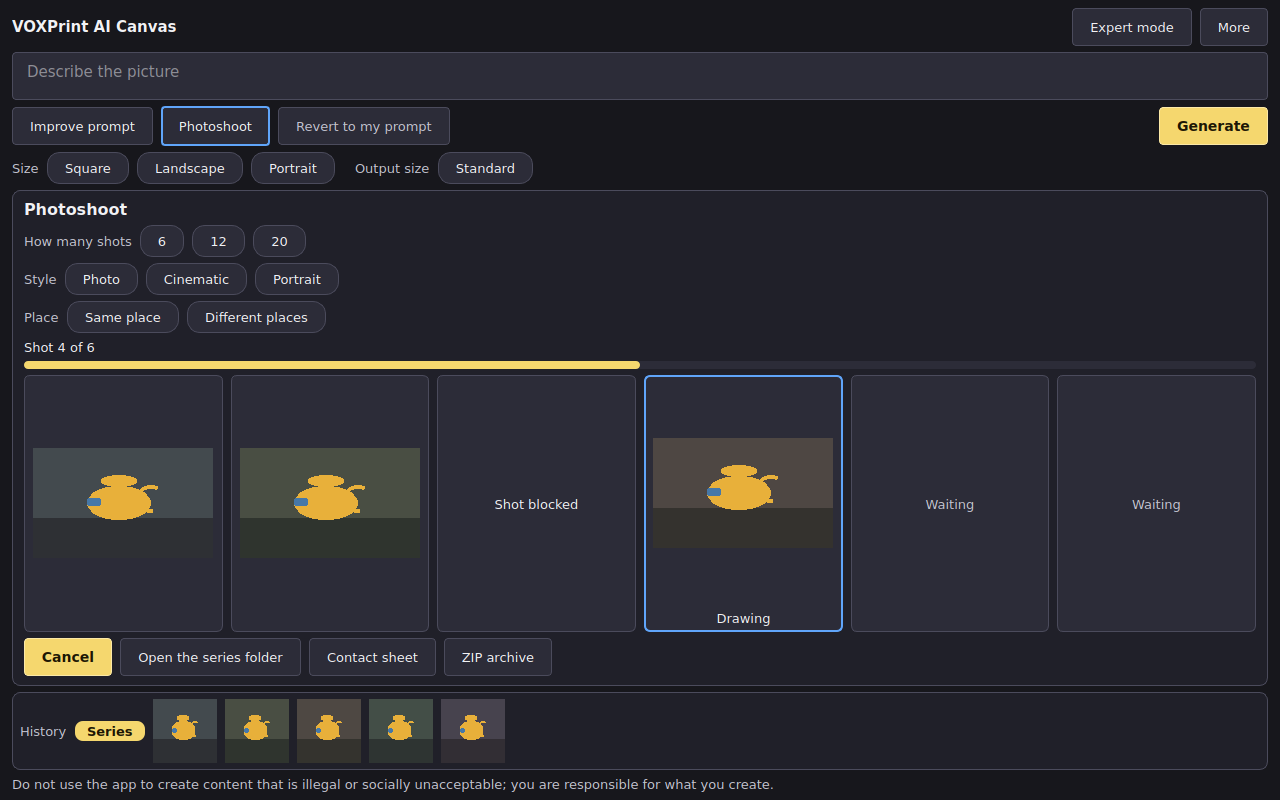
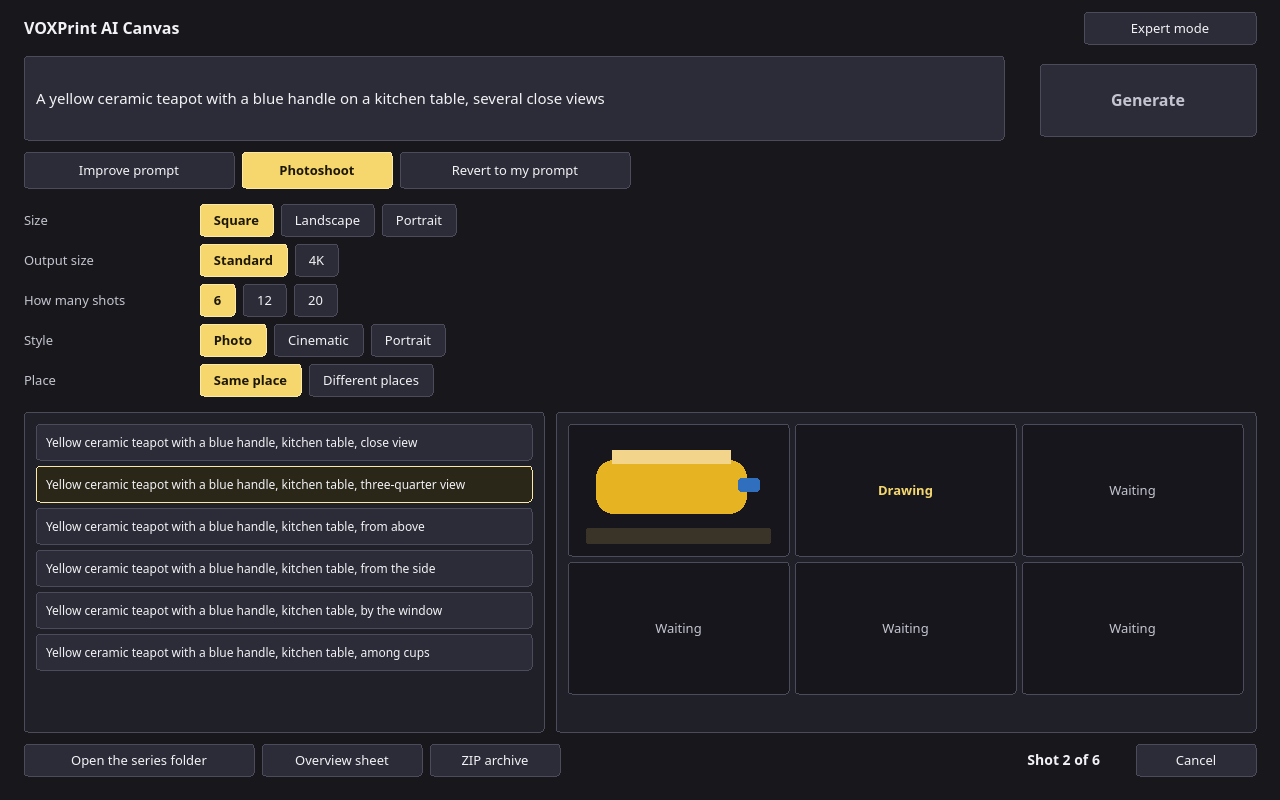
Plan Photoshoot as an automatic Improve mode.
The idea stays in the prompt field. Photoshoot is a selected option
beside Improve prompt, and Generate writes the scenario, checks the
gate, and runs the series. Simple mode shows a read-only shot list.

diff --git a/docs/plans/PHOTOSHOOT.md b/docs/plans/PHOTOSHOOT.md
@@ -2,22 +2,23 @@
 
 > **For agentic workers:** REQUIRED SUB-SKILL: Use superpowers:subagent-driven-development (recommended) or superpowers:executing-plans to implement this plan task-by-task. Steps use checkbox (`- [ ]`) syntax for tracking.
 
-**Goal:** Add a simple-mode Photoshoot («Фотосессия») that writes a scenario and batch-generates 6, 12, or 20 continuing pictures of one subject.
+**Goal:** Add Photoshoot («Фотосессия») as an extended mode of Improve prompt. The user writes the idea in the normal prompt field. One primary action writes the scenario, checks it, and generates 6, 12, or 20 pictures of one subject.
 
-**Architecture:** The button opens a panel on the shared simple screen. Qwen3-4B, the Z-Image text encoder already used by Improve prompt, writes a JSON scenario. The app copies a fixed subject block into every shot, checks it, then generates the series one frame at a time. A hero frame plus moderate img2img is the consistency path. No new model pack, no InsightFace, no training, and no Qwen-Image-Edit.
+**Architecture:** «Фотосессия» is a selected option beside «Улучшить запрос», not a panel the user assembles. Generate stays the only primary button. It asks Qwen3-4B, the Z-Image text encoder already used by Improve prompt, for a JSON scenario, copies a fixed subject block into every shot, runs the existing gate, and generates the series one frame at a time. Simple mode shows that shot list read-only beside the progress grid. A hero frame plus moderate img2img is the consistency path. No new model pack, no InsightFace, no training, and no Qwen-Image-Edit.
 
 **Tech Stack:** PySide6 shell on `ui/shell-migration`, `voxprint-common` simple screen (pin `f4e95cc`), diffusers 0.41.0, Z-Image-Turbo BF16 (`Tongyi-MAI/Z-Image-Turbo` `f332072`), Qwen3-4B causal LM via tied embeddings.
 
-This document is the plan and the mockup. It does not ship the feature.
+Aleksandr, via Suite Lead: «Фотосессия создается автоматически через расширенный режим автоулучшения». Whether this joins the first release remains Aleksandr's decision.
 
 ## Global Constraints
 
 - Licence-clean components only. Apache-2.0 or MIT. No InsightFace. No training of any kind, and no LoRA training.
 - Qwen-Image-Edit stays removed. Do not call it, re-enable it, or use it for consistency.
-- The minors gate is unchanged and non-configurable. It covers the idea, the scenario, every shot prompt, any reference image, and every output frame.
+- The minors gate is unchanged and non-configurable. It covers the idea, the scenario, every shot prompt, and every output frame.
 - The Adult content switch only changes the prompt policy, as it does everywhere else.
 - A reference photo of a real person is out of scope for v1.
-- Simple mode is not a sparse form. Each Photoshoot screen shows 2–5 everyday preset rows. Fine technical parameters stay in Expert.
+- Simple mode is not a sparse form. While Photoshoot is selected, the screen shows 2–5 everyday preset rows, each with a visible selected chip. Fine technical parameters stay in Expert.
+- There is one primary action. Generate («Создать» / "Generate") writes the scenario and creates the series. There is no «Составить сценарий» step and no second primary button.
 - New user-facing strings live in the Canvas i18n catalogs `canvas/ui/locales/en.json` and `canvas/ui/locales/ru.json`. Reused shell strings stay in `voxprint-common`.
 - Z-Image weights stay BF16 on both tiers. The 16 GB FP8 generator is not a shipping path.
 
@@ -25,41 +26,46 @@ This document is the plan and the mockup. It does not ship the feature.
 
 ## 1. Simple-mode flow
 
-Photoshoot sits in the action row, immediately after Improve prompt (`simple.improve`, «Улучшить запрос» / "Improve prompt"). The main prompt field stays. Photoshoot has its own idea field. Generate, Revert, size, and output stay visible. The shell's picture-count chips (`simple.count`, 1 / 2 / 4) hide while the panel is open, so the screen has one count.
+The idea is the text already in the prompt field (`promptBox`). Photoshoot does not add a second idea field.
 
-The panel has three screens. Each one shows the same five everyday preset rows, which is the top of the 2–5 range:
+«Фотосессия» sits in the prompt tools row, immediately after Improve prompt (`simple.improve`, «Улучшить запрос» / "Improve prompt"). It is a checkable option, object name `photoshootMode`. Selected, it is the extended mode of that same enhancer: Generate will write a scenario instead of one rewritten prompt. Unselected, Generate makes one picture as it does today. Improve prompt itself still rewrites a single prompt when the user presses it. Revert stays.
 
-| Row | Where | Choices | Default | Catalog |
-| --- | --- | --- | --- | --- |
-| Size | Shell | Square, Landscape, Portrait | Square | existing `simple.size` and its group labels |
-| Output | Shell | Standard, 4K | Standard | existing `simple.output`, `simple.output.standard`, `simple.output.4k` |
-| How many shots | Panel | 6, 12, 20 | 6 | `photoshoot.count`, `photoshoot.count.6`, `.12`, `.20` |
-| Style | Panel | Photo, Cinematic, Portrait | Photo | existing `simple.style`, `simple.style.photo`, `.cinematic`, `.portrait` |
-| Place | Panel | Same place, Different places | Different places | `photoshoot.place`, `.same`, `.different` |
+While the option is selected, the shell picture-count chips (`simple.count`, 1 / 2 / 4) hide, and the long style row hides. Five everyday rows remain, which is the top of the 2–5 range. The selected chip in each row uses the primary fill and the dark text on primary, so the choice is readable without hovering.
 
-4K uses the existing Enlarge rule. A series does not invent a second output control. The shell picture-count chips stay hidden, so 6 / 12 / 20 is the only count.
+| Row | Choices | Default | Catalog |
+| --- | --- | --- | --- |
+| Size | Square, Landscape, Portrait | Square | existing `simple.size` and its group labels |
+| Output | Standard, 4K | Standard | existing `simple.output`, `simple.output.standard`, `simple.output.4k` |
+| How many shots | 6, 12, 20 | 6 | `photoshoot.count`, `photoshoot.count.6`, `.12`, `.20` |
+| Style | Photo, Cinematic, Portrait | Photo | existing `simple.style`, `simple.style.photo`, `.cinematic`, `.portrait` |
+| Place | Same place, Different places | Same place | `photoshoot.place`, `.same`, `.different` |
 
-The other looks (illustration, anime, 3D, painting, sketch) stay on the main style row when Photoshoot is closed. While the panel is open, the style row is these three everyday looks, so there is one style row and it still fits. They write `canvas.style` through the same path as the main row.
+4K uses the existing Enlarge rule. A series does not invent a second output control. The three Photoshoot style chips write `canvas.style` through the same path as the main row. The other looks stay available when Photoshoot is off.
 
-### Idea
+### One action
 
-«Фотосессия» opens the panel on the idea screen. The idea is one plain field, separate from the prompt. The five rows above are already filled. «Составить сценарий» sends the idea, the shot count, the style, and the place choice to the scenario model. The button shows «Составляем сценарий…» and is busy until the list appears. Cancel (`simple.cancel`) is visible during that wait and discards the reply.
+«Создать» / "Generate" is the only primary button. With Photoshoot selected it does all of this, in order, without a confirmation screen:
 
-### Shots
+1. Gate the idea. A block stops the series. The idea is not rewritten.
+2. Ask the enhancer for the scenario and the shot lines.
+3. Gate the scenario text. A block stops the series. The scenario is not rewritten and the model is not asked to soften it.
+4. Generate the series, gating each shot line and each output frame.
 
-The next screen is an editable list of one line per shot. The line count starts at the selected chip (6, 12, or 20). Each line can be edited, moved up, moved down, deleted, or a new line can be added. Add is disabled at 20. Delete is disabled at 6. «Создать серию» is disabled outside 6–20, and the hint `photoshoot.range` shows.
+Cancel (`simple.cancel`) is visible during that whole run. Cancel stops before the next frame. The frame already in flight is allowed to finish and is kept if the gate allows it. Frames already saved stay in the series folder.
 
-Changing 6 / 12 / 20 sets the length. Growing asks the model only for the new lines and appends them. Shrinking drops lines from the end. Style, place, and size stay visible. Changing style or place does not rewrite the list by itself. «Обновить сценарий» appears and, when pressed, replaces the lines. It does not run unless the user presses it.
+### Shot list during the run
 
-### Create and progress
+The generated lines appear as soon as the scenario is accepted, in a read-only list beside the progress grid (above it when the stage is narrow). Simple rows are plain. They show the subject block, the place, the scene, and the pose. They do not show a lens, a millimetre value, or an angle. A row has no drag handle and no menu.
 
-«Создать серию» starts the run. The progress screen keeps the same five rows, frozen, so the choices stay readable. A grid fills one cell at a time. The line is «Кадр {current} из {total}». «Отмена» stays visible. Cancel stops before the next frame. The frame already in flight is allowed to finish and is kept if the gate allows it. Frames already saved stay in the series folder.
+Example, simple Russian row: «Жёлтый керамический чайник с синей ручкой, кухонный стол, крупно».
 
-These actions stay visible on the progress screen, not behind Expert:
+The progress line is «Кадр {current} из {total}». The five preset rows stay visible and frozen, with the same selected chips. The grid fills one cell at a time.
+
+These actions stay visible on the progress screen, not behind Expert. They are plain buttons. Generate is the only primary, and it is disabled while the run is busy.
 
 - Cancel (`simple.cancel`)
 - Open the series folder (`photoshoot.folder`)
-- Contact sheet (`photoshoot.export.sheet`)
+- Overview sheet (`photoshoot.export.sheet`)
 - ZIP (`photoshoot.export.zip`)
 
 The sheet and the ZIP include whatever has been kept. They are enabled after the first kept frame, not only at the end.
@@ -82,12 +88,6 @@ New keys, both catalogs. `{current}` and `{total}` are the only placeholders.
 | --- | --- | --- |
 | `photoshoot.button` | Photoshoot | Фотосессия |
 | `photoshoot.tooltip` | A series of the same subject | Серия кадров одного предмета |
-| `photoshoot.title` | Photoshoot | Фотосессия |
-| `photoshoot.idea.label` | Idea | Идея |
-| `photoshoot.idea.placeholder` | Describe the idea. The same subject, different shots. | Опишите идею. Один и тот же предмет или человек, разные кадры. |
-| `photoshoot.idea.write` | Write the scenario | Составить сценарий |
-| `photoshoot.idea.writing` | Writing the scenario… | Составляем сценарий… |
-| `photoshoot.idea.update` | Update the scenario | Обновить сценарий |
 | `photoshoot.count` | How many shots | Сколько кадров |
 | `photoshoot.count.6` | 6 | 6 |
 | `photoshoot.count.12` | 12 | 12 |
@@ -95,12 +95,6 @@ New keys, both catalogs. `{current}` and `{total}` are the only placeholders.
 | `photoshoot.place` | Place | Место |
 | `photoshoot.place.same` | Same place | Одно место |
 | `photoshoot.place.different` | Different places | Разные места |
-| `photoshoot.shots.hint` | Each line can be edited, moved, deleted, or added. | Каждую строку можно изменить, передвинуть, удалить или добавить. |
-| `photoshoot.shots.add` | Add a shot | Добавить кадр |
-| `photoshoot.shots.up` | Up | Выше |
-| `photoshoot.shots.down` | Down | Ниже |
-| `photoshoot.shots.create` | Create the series | Создать серию |
-| `photoshoot.range` | A series needs 6 to 20 shots. | Нужно от 6 до 20 кадров. |
 | `photoshoot.progress.frame` | Shot {current} of {total} | Кадр {current} из {total} |
 | `photoshoot.frame.blocked` | Shot blocked | Кадр заблокирован |
 | `photoshoot.frame.waiting` | Waiting | Ждёт |
@@ -109,9 +103,12 @@ New keys, both catalogs. `{current}` and `{total}` are the only placeholders.
 | `photoshoot.subject.missing` | This line is missing the subject. This shot will be skipped. | В строке нет описания предмета. Этот кадр будет пропущен. |
 | `photoshoot.shot.dropped` | This shot was left out of the scenario. | Этот кадр не вошёл в сценарий. |
 | `photoshoot.folder` | Open the series folder | Открыть папку серии |
-| `photoshoot.export.sheet` | Contact sheet | Лист контактов |
+| `photoshoot.export.sheet` | Overview sheet | Обзорный лист |
 | `photoshoot.export.zip` | ZIP archive | Архив ZIP |
 | `photoshoot.series.history` | Series | Серия |
+| `photoshoot.shot.edit` | Edit | Изменить |
+| `photoshoot.shot.duplicate` | Duplicate | Дублировать |
+| `photoshoot.expert.camera` | Camera | Камера |
 | `photoshoot.expert.seed` | Seed | Зерно |
 | `photoshoot.expert.seed.series` | In order | По порядку |
 | `photoshoot.expert.seed.locked` | Same seed | Одно и то же |
@@ -125,7 +122,7 @@ New keys, both catalogs. `{current}` and `{total}` are the only placeholders.
 
 Reused, not duplicated: `simple.improve`, `simple.revert` (Canvas override «Вернуть мой запрос» / "Revert to my prompt"), `simple.generate`, `simple.cancel`, `simple.history.delete`, `simple.style`, `simple.style.photo`, `simple.style.cinematic`, `simple.style.portrait`, `simple.size`, `simple.size.square`, `simple.size.landscape`, `simple.size.portrait`, `simple.output`, `simple.output.standard`, `simple.output.4k`, `canvas.stage.draw`, `gate.blocked`, `gate.unavailable`.
 
-Row delete uses `simple.history.delete` («Удалить» / "Delete").
+Row delete in the Expert menu uses `simple.history.delete` («Удалить» / "Delete").
 
 ---
 
@@ -135,7 +132,7 @@ Reuse the Improve prompt model. `canvas/pipeline/enhance.py` already loads the Z
 
 `open_rewriter` today caps `max_new_tokens` at 320. A scenario needs its own call with `max_new_tokens` 3072, `do_sample` false, and `enable_thinking` false, then `close()` before any frame. On a 16 GB card the encoder is not resident during denoise. That is the same rule as Enhance.
 
-The shot lines are English around a subject block copied from the idea. Z-Image follows English more closely (`docs/enhance.md`). The subject block is not translated.
+The generator lines are English around a subject block copied from the idea. Z-Image follows English more closely (`docs/enhance.md`). The subject block is not translated. The simple list hides the camera clause. Expert shows it.
 
 ### System prompt
 
@@ -164,7 +161,15 @@ Rules:
 - style "photo" means a plain photograph. "cinematic" means a film still. "portrait" means a portrait with shallow depth of field. Put that only in the wording of scene or camera, not in subject_block.
 ```
 
-The app builds each editable line. The model does not return the line.
+The app builds each line. The model does not return the line.
+
+Simple display, and the prompt sent when Expert has not changed the camera:
+
+```text
+{subject_block}, {place_phrase}, {scene}, {pose}
+```
+
+Expert display, and the prompt sent when the camera clause is kept:
 
 ```text
 {subject_block}, {place_phrase}, {scene}, {pose}, {camera}
@@ -193,11 +198,11 @@ Shots:
 
 If the subject block, the ages, or the place mode fail, discard the whole reply and call the model once more with the same system prompt. Do not add a hint that mentions the gate or asks for milder wording. If the second reply still fails, stop the series and show `photoshoot.scenario.stopped`. Do not generate.
 
-If one shot fails the verbatim check or repeats a scene, discard that shot and regenerate it, up to two more times, with a user message that contains only the subject block, the place mode, and "write one different shot". If it still fails, drop that shot, show `photoshoot.shot.dropped` on the row, and do not backfill it with a reworded prompt. «Создать серию» stays disabled while fewer than 6 lines remain.
+If one shot fails the verbatim check or repeats a scene, discard that shot and regenerate it, up to two more times, with a user message that contains only the subject block, the place mode, and "write one different shot". If it still fails, drop that shot, show `photoshoot.shot.dropped` on the row, and do not backfill it with a reworded prompt. If fewer than 6 lines remain, stop the series and show `photoshoot.scenario.stopped`. Do not invent lines to fill the count.
 
-User edits are kept as typed. Before a line is sent to the generator, the subject block must still be an exact substring. If the user removed it, skip that line, show `photoshoot.subject.missing`, and do not put the block back.
+Expert may edit, reorder, or duplicate a shot that has not started. The run does not wait for that edit. Before a line is sent to the generator, the subject block must still be an exact substring. If the edit removed it, skip that line, show `photoshoot.subject.missing`, and do not put the block back. Simple mode never offers the edit.
 
-Adult markers follow the Enhance rule: keep them verbatim, and do not soften them. The same check that Enhance uses for a dropped or changed stated age applies to the subject block.
+Adult markers follow the Enhance rule: keep them verbatim, and do not soften them. The same check that Enhance uses for a dropped or changed stated age applies to the subject block and to every shot. A shot whose stated ages are not the idea's stated ages is discarded.
 
 ---
 
@@ -293,41 +298,45 @@ Default the chip to 6 because 12 and 20 multiply an unmeasured 16 GB frame. 12 a
 
 ## 5. Safety
 
-The minors gate does not gain a setting. `AgeGate.review_prompt` and `review_image` run as they do now. Nothing in the series reads a flag that weakens them.
+The minors gate does not gain a setting. `AgeGate.review_prompt` and `review_image` run as they do now. Nothing in the series reads a flag that weakens them. A blocked idea or a blocked scenario stops the series. Nothing rewords a blocked text to get past the gate.
 
 Order:
 
 1. Gate the idea text. A block stops the series before the language model runs. Show `gate.blocked`. Do not rewrite the idea.
 2. Gate the scenario text (subject block, places, and every assembled line) as one prompt. A block stops the series. Do not call the model again. A validation retry from section 2 happens only when the JSON is well formed and the gate has not blocked. The retry prompt must not mention the gate.
-3. On Create, gate each shot line. A blocked line is dropped, shown as `photoshoot.frame.blocked`, and the run continues. The line is not reworded.
+3. Gate each shot line before that frame starts. A blocked line is dropped, shown as `photoshoot.frame.blocked`, and the run continues. The line is not reworded.
 4. The hero, and every later frame, is an output image. Gate it before it is kept, with the shot line as the stated-age support, the same way a single picture is gated. A blocked frame is not written and is not used as the next hero. The cell shows blocked. The run continues.
 5. v1 has no user reference photo. If a later version adds one, that image is an input and goes through `review_image` before any shot. A block stops the series.
 
 The Adult content switch stays the Expert prompt policy (`layout.prompt_policy()` in `canvas/ui/shell_layout.py`). It adds the audience template and negatives. It does not change the gate. Each shot is composed the same way as `composed_prompt`.
 
-A reference photo of a real person is out of scope for v1. **NEEDS OWNER DECISION:** consent and likeness. The idea field is text. "Use a picture" is not an input to Photoshoot in this version.
+A reference photo of a real person is out of scope for v1. **NEEDS OWNER DECISION:** consent and likeness. The idea is text in the prompt field. "Use a picture" is not an input to Photoshoot in this version.
 
 ---
 
 ## 6. Expert extras
 
-Expert keeps the fine controls. The everyday ones moved to the simple rows in section 1 because a simple screen needs 2–5 preset rows and those choices are plain words.
+Expert keeps the fine controls. Count, style, and place stay on the simple rows because a simple screen needs 2–5 preset rows and those choices are plain words.
+
+The shot list becomes editable only in Expert. Each row has a drag handle and one `⋯` menu: Edit (`photoshoot.shot.edit`), Duplicate (`photoshoot.shot.duplicate`), Delete (`simple.history.delete`). The camera field (`photoshoot.expert.camera`) is on the row, for example "50 mm, three-quarter angle". Simple rows do not show that field. Edits apply to a shot that has not started. The series does not pause for them.
 
 Stays in Expert:
 
 | Control | Values | Notes |
 | --- | --- | --- |
+| Shot row | Drag handle, `⋯` menu | Edit, duplicate, delete. Hidden in simple mode. |
+| Camera | Free text | Lens and angle, such as "50 mm". Hidden in simple mode. Omitted from the simple prompt. |
 | Seed | In order, Same seed, Random | Default In order. Same seed does not lock identity. See section 3. |
 | How close | Looser 0.65, Usual 0.45, Closer 0.30 | Img2img strength. Hidden in simple mode, which uses 0.45. |
 | Shot shape | Any catalog aspect | Default is the simple size row. One row can override it. |
 | Style for this shot | Any of the three everyday looks, or the series default | Overrides `canvas.style` for that line only. |
 
-Moved out of Expert, on every Photoshoot screen:
+On the simple progress screen, not in Expert:
 
-- How many shots: 6 / 12 / 20, plus add and delete inside 6–20
+- How many shots: 6 / 12 / 20
 - Style: Photo / Cinematic / Portrait
 - Place: Same place / Different places
-- Contact sheet and ZIP, on the progress screen
+- Overview sheet and ZIP
 
 The per-shot style override is the expert form of style. The series-wide style is the simple chip.
 
@@ -335,33 +344,31 @@ The per-shot style override is the expert form of style. The series-wide style i
 
 ## 7. Effort and recommendation
 
-Ship this after the first release. Do not put it in the current shell migration.
+Whether Photoshoot joins the first release remains Aleksandr's decision. The flow above is the one to build. Do not build the older separate panel, the manual «Составить сценарий» step, or a simple-mode shot editor.
 
-The minimal version is not cheap enough to pull forward. The shell is still mid-migration (`pending Yitro` in `docs/ui/FEATURE-MAP.md` for the image surface and the live expert settings). History has no series fields. The safety wiring has to be right before a batch of pictures of a person can run. The expensive parts are the scenario validator, the batch loop with Cancel, the series folder, and the gate on every text and every frame. The five preset rows are part of that minimal screen, not a later polish, because a sparse form would fail the suite rule.
+The shell is still mid-migration (`pending Yitro` in `docs/ui/FEATURE-MAP.md` for the image surface and the live expert settings). History has no series fields. The safety wiring has to be right before a batch of pictures of a person can run. The expensive parts are the scenario validator, the batch loop with Cancel, the series folder, and the gate on every text and every frame. The preset rows are part of that screen, not a later polish, because a sparse form would fail the suite rule.
 
-### Minimal version (first post-release slice)
+### Minimal version
 
-- The button, the idea field, the five preset rows, the editable list, Create, and Cancel
+- The Photoshoot option on the Improve row, the five preset rows, and Generate as the only primary
+- Automatic scenario, then the gate, then the series, with Cancel
+- Read-only plain shot list beside the progress grid
 - Scenario JSON, verbatim subject block, place-mode check, and the gate order in section 5
-- Text-to-image only, with the subject block on every line. No hero frame and no img2img
+- Text-to-image with the subject block on every line, then the hero frame and img2img at 0.45
 - Series folder, `series.json`, and history items. Strip grouping waits on `voxprint-common` if the writer cannot store `series_id`
-- Contact sheet and ZIP of the kept frames
-- No Expert seed, strength, per-shot shape, or per-shot style override
+- Overview sheet and ZIP of the kept frames
+- Expert: drag handle, `⋯` menu, camera field, seed, strength, per-shot shape, and per-shot style
 
-Consistency of the minimal version is the subject block alone: low for faces, moderate for a distinctive object. The UI must not call it a matched identity.
-
-### Second slice
-
-Hero frame plus img2img at 0.45, then the Expert rows in section 6. Still no adapter, no InsightFace, no training, and no Qwen-Image-Edit.
+Consistency of the subject block alone is low for faces and moderate for a distinctive object. With the hero frame it is a rough likeness. The UI must not call it a matched identity.
 
 ### Later files
 
 - Create `canvas/pipeline/photoshoot.py` for the prompt, the JSON types, and the validator
-- Create `canvas/pipeline/series.py` for the one-frame loop, Cancel, and the folder
-- Create `canvas/ui/photoshoot_panel.py` for the three screens
-- Modify `canvas/ui/shell_screen.py` to host the button and the panel
+- Create `canvas/pipeline/series.py` for the one-frame loop, Cancel, the folder, the overview sheet, and the ZIP
+- Create `canvas/ui/photoshoot_bar.py` for the option, the chips, and the read-only list
+- Modify `canvas/ui/shell_screen.py` so Generate runs the series when the option is selected
 - Modify `canvas/ui/locales/en.json` and `ru.json` with the table in section 1
-- Test `tests/test_photoshoot.py`: ages copied, a dropped age discards the shot, a blocked idea stops the series, a blocked frame does not rewrite the line, place mode, and the 6–20 bounds
+- Test `tests/test_photoshoot.py`: ages copied, a dropped age discards the shot, a blocked idea or scenario stops the series, a blocked frame does not rewrite the line, place mode, the 6–20 bounds, and simple lines omit the camera
 
 ---
 
@@ -369,11 +376,9 @@ Hero frame plus img2img at 0.45, then the Expert rows in section 6. Still no ada
 
 Static Qt mock, 1280×800, offscreen, shared dark tokens from `voxprint-common` `tokens.json` (`voxprint-dark`). The pictures are geometric still lifes of a teapot. They are not people.
 
-- `docs/plans/photoshoot/photoshoot-idea-ru.png`
-- `docs/plans/photoshoot/photoshoot-idea-en.png`
-- `docs/plans/photoshoot/photoshoot-shots-ru.png`
-- `docs/plans/photoshoot/photoshoot-shots-en.png`
+- `docs/plans/photoshoot/photoshoot-ready-ru.png`
+- `docs/plans/photoshoot/photoshoot-ready-en.png`
 - `docs/plans/photoshoot/photoshoot-progress-ru.png`
 - `docs/plans/photoshoot/photoshoot-progress-en.png`
 
-The idea screen shows the idea field and «Составить сценарий» / "Write the scenario". The shots screen shows six editable lines and «Создать серию» / "Create the series". The progress screen shows the grid filling in, «Отмена» / "Cancel", and the folder, contact sheet, and ZIP actions. All three show size, output, shot count, style, and place.
+The ready screen shows the idea in the normal prompt field, «Фотосессия» selected beside Improve prompt, the five rows with 6, Photo, and Same place selected, and Generate as the only primary. The progress screen shows the same rows frozen, a read-only plain shot list beside the grid, Cancel, and the folder, overview sheet, and ZIP actions. Simple rows have no drag handle, no `⋯` menu, and no lens text.
